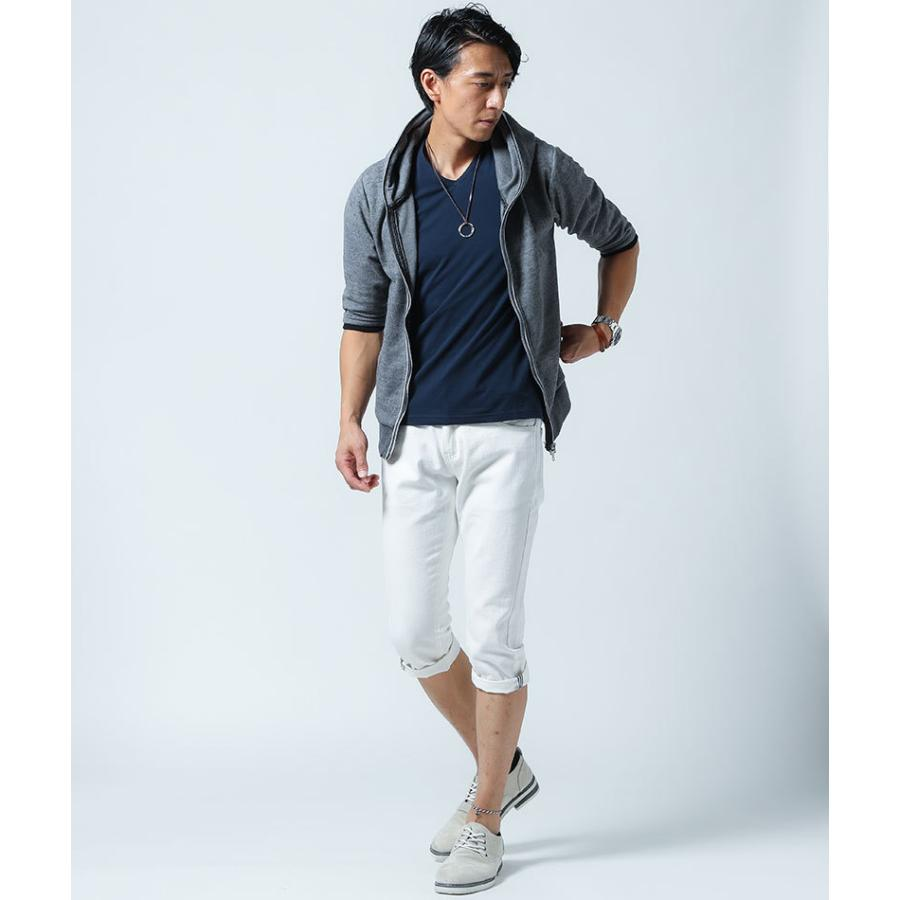
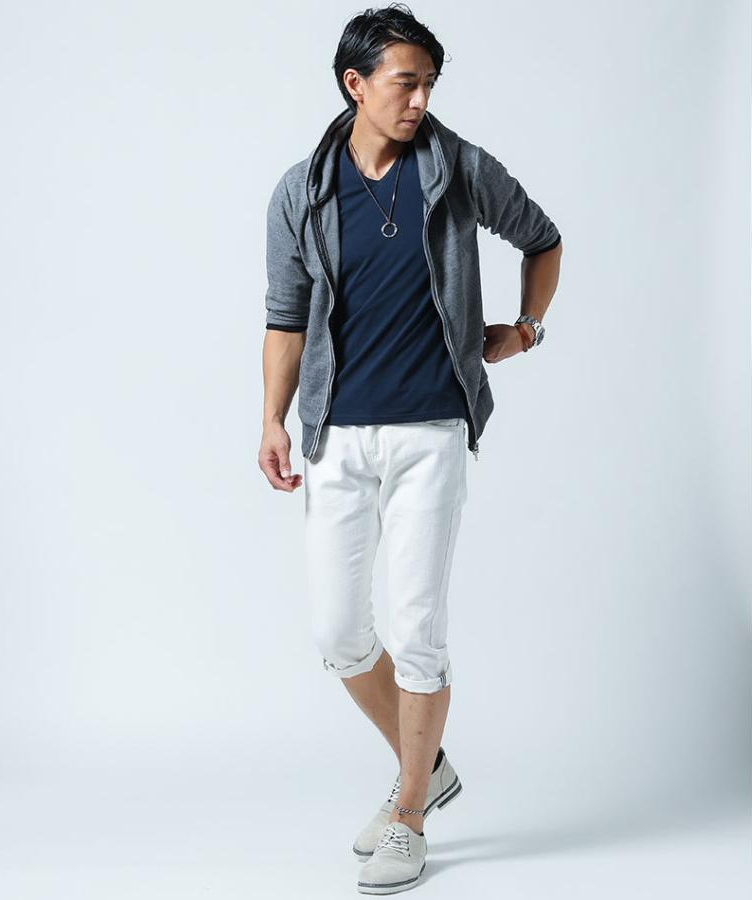
Add files via upload

diff --git a/スタイルセンス/スタイルセンス.py b/スタイルセンス/スタイルセンス.py
@@ -11,12 +11,23 @@ from datetime import datetime
 import kivy.graphics 
 import threading 
 from kivy.uix.spinner import Spinner 
+import os # 導入 os 模塊用於路徑檢查
 
 API_KEY = "93aea5ae7f71bd9bcbe24bb57b43ad90"
 DEFAULT_CITY = "Kobe"
 WEATHER_ICON_URL = "https://openweathermap.org/img/wn/{icon_code}@2x.png" 
 DEFAULT_ICON_PATH = "images/default.png" 
-Window.clearcolor = (1, 1, 1, 1)
+
+# -------------------------------------------------------------------
+# 獲取應用程式根目錄，用於構建絕對路徑 (解決 Kivy 路徑問題)
+app_dir = os.path.dirname(os.path.abspath(__file__))
+
+def get_abs_path(relative_path):
+    """將相對路徑轉換為絕對路徑"""
+    parts = relative_path.split('/') 
+    return os.path.join(app_dir, *parts)
+# -------------------------------------------------------------------
+
 
 class WeatherApp(App):
     def build(self):
@@ -30,26 +41,52 @@ class WeatherApp(App):
         self.sunrise = 0
         self.sunset = 0
 
+        # 💥 只有兩種背景圖片，使用絕對路徑
+        self.rainy_bg_image = get_abs_path("images/rainy_background.png")  
+        self.sunny_bg_image = get_abs_path("images/sunny_background.png")  
+        # ⚠ 移除 cloudy_bg_image 相關定義
+        self.current_bg_image = self.sunny_bg_image 
+
+        # 檢查背景圖片是否存在 
+        if not os.path.exists(self.rainy_bg_image):
+            print(f"警告: 雨天背景圖片 '{self.rainy_bg_image}' 未找到。")
+            self.rainy_bg_image = "" 
+        if not os.path.exists(self.sunny_bg_image):
+            print(f"警告: 晴天背景圖片 '{self.sunny_bg_image}' 未找到。")
+            self.sunny_bg_image = "" 
+        # ⚠ 移除 cloudy_bg_image 檢查
+
+        # 確保服裝建議圖也使用絕對路徑
         self.rules = [
-            {"temp": (-20, 10), "weather_keywords": ["雨", "雪", "霧"], "advice": "寒くて雨や雪です。ダウンコートや厚手の上着、防水靴をおすすめします。", "image": "images/coat_rain.png"},
-            {"temp": (-20, 10), "weather_keywords": [], "advice": "寒く乾燥しています。厚手のコートやダウンをおすすめします。", "image": "images/coat.png"}, 
-            {"temp": (11, 20), "weather_keywords": ["雨"], "advice": "涼しく雨です。薄手の上着やウィンドブレーカー、傘を持ちましょう。", "image": "images/long_sleeve_rain.png"}, 
-            {"temp": (11, 20), "weather_keywords": [], "advice": "涼しい天気です。薄手の上着や長袖シャツをおすすめします。", "image": "images/long_sleeve.png"},
-            {"temp": (21, 25), "weather_keywords": ["雨"], "advice": "暖かく雨が降りそうです。長袖や七分袖に軽めの上着、傘を持ちましょう。", "image": "images/long_sleeve_tshirt_rain.png"}, 
-            {"temp": (21, 25), "weather_keywords": [], "advice": "過ごしやすい気温です。長袖や七分袖に軽い上着が良いでしょう。", "image": "images/long_sleeve_tshirt.png"}, 
-            {"temp": (26, 40), "weather_keywords": ["雨", "雷"], "advice": "暑くて雨です。半袖、短パンで涼しくし、傘を持ちましょう。", "image": "images/tshirt_rain.png"}, 
-            {"temp": (26, 40), "weather_keywords": [], "advice": "暑い日です。半袖やスカートなど涼しい服装をおすすめします。", "image": "images/tshirt.png"},
-            
+            {"temp": (-20, 10), "weather_keywords": ["雨", "雪", "霧"], "advice": "寒くて雨や雪です。ダウンコートや厚手の上着、防水靴をおすすめします。", "image": get_abs_path("images/coat_rain.png")},
+            {"temp": (-20, 10), "weather_keywords": [], "advice": "寒く乾燥しています。厚手のコートやダウンをおすすめします。", "image": get_abs_path("images/coat.png")}, 
+            {"temp": (11, 20), "weather_keywords": ["雨"], "advice": "涼しく雨です。薄手の上着やウィンドブレーカー、傘を持ちましょう。", "image": get_abs_path("images/long_sleeve_rain.png")}, 
+            {"temp": (11, 20), "weather_keywords": [], "advice": "涼しい天気です。薄手の上着や長袖シャツをおすすめします。", "image": get_abs_path("images/long_sleeve.png")},
+            {"temp": (21, 25), "weather_keywords": ["雨"], "advice": "暖かく雨が降りそうです。長袖や七分袖に軽めの上着、傘を持ちましょう。", "image": get_abs_path("images/long_sleeve_tshirt_rain.png")}, 
+            {"temp": (21, 25), "weather_keywords": [], "advice": "過ごしやすい気温です。長袖や七分袖に軽い上着が良いでしょう。", "image": get_abs_path("images/long_sleeve_tshirt.png")}, 
+            {"temp": (26, 40), "weather_keywords": ["雨", "雷"], "advice": "暑くて雨です。半袖、短パンで涼しくし、傘を持ちましょう。", "image": get_abs_path("images/tshirt_rain.png")}, 
+            {"temp": (26, 40), "weather_keywords": [], "advice": "暑い日です。半袖やスカートなど涼しい服装をおすすめします。", "image": get_abs_path("images/tshirt.png")},
         ]
 
-        main_layout = BoxLayout(orientation='vertical', padding=20, spacing=15)
-        top_layout = BoxLayout(orientation='horizontal', size_hint_y=0.25, spacing=10)
+        # 💥 移除 padding 和 spacing，讓背景鋪滿整個視窗
+        main_layout = BoxLayout(orientation='vertical', padding=0, spacing=0) 
+        
+        # 設定 main_layout 的背景圖片
+        main_layout.bind(size=self._update_bg_rect, pos=self._update_bg_rect)
+        with main_layout.canvas.before:
+            # 💥 透明度設為 1.0 (100% 不透明)
+            kivy.graphics.Color(1, 1, 1, 1) 
+            self.bg_rect = kivy.graphics.Rectangle(source=self.current_bg_image, 
+                                                   pos=main_layout.pos, 
+                                                   size=main_layout.size)
+
+        # 接下來的佈局元件需要自己設定間距，如果需要的話
+        top_layout = BoxLayout(orientation='horizontal', size_hint_y=0.25, spacing=10, padding=15) # 重新加入內邊距
+        
         city_icon_layout = BoxLayout(orientation='horizontal', size_hint_x=0.6, spacing=5)
         self.city_selector_layout = BoxLayout(orientation='horizontal', size_hint_x=0.6) 
-        self.city_selector_layout.bind(size=self._update_rect, pos=self._update_rect)
-        with self.city_selector_layout.canvas.before:
-             kivy.graphics.Color(0, 0, 0, 1)
-             self.city_rect = kivy.graphics.Line(width=1)
+        # ⚠ 移除 city_selector_layout 的邊框繪製
+
         self.city_label = Label(
             text=self.city_name,
             font_name="C:/Windows/Fonts/msgothic.ttc",
@@ -75,7 +112,7 @@ class WeatherApp(App):
         self.city_spinner.bind(text=self.manual_search_weather_spinner)
         self.city_selector_layout.add_widget(self.city_label)
         self.city_selector_layout.add_widget(self.city_spinner)
-        self.weather_icon = Image(source=DEFAULT_ICON_PATH, size_hint_x=0.4)
+        self.weather_icon = Image(source=get_abs_path(DEFAULT_ICON_PATH), size_hint_x=0.4) 
         city_icon_layout.add_widget(self.city_selector_layout) 
         city_icon_layout.add_widget(self.weather_icon)
         date_weather_layout = BoxLayout(orientation='vertical', size_hint_x=0.4, spacing=5) 
@@ -104,11 +141,10 @@ class WeatherApp(App):
         date_weather_layout.add_widget(self.temp_weather_label)
         top_layout.add_widget(city_icon_layout)
         top_layout.add_widget(date_weather_layout)
-        self.center_layout = BoxLayout(orientation='horizontal', size_hint_y=0.5, spacing=10) 
-        self.center_layout.bind(size=self._update_rect, pos=self._update_rect)
-        with self.center_layout.canvas.before:
-            kivy.graphics.Color(0, 0, 0, 1)
-            self.center_rect = kivy.graphics.Line(width=1) 
+        
+        self.center_layout = BoxLayout(orientation='horizontal', size_hint_y=0.5, spacing=10, padding=[15, 0, 15, 0]) # 重新加入內邊距
+        # ⚠ 移除 center_layout 的邊框繪製
+
         left_center_layout = BoxLayout(orientation='vertical', size_hint_x=0.4, padding=[0, 10, 0, 0], spacing=10)
         self.extra_info_label = Label(
             text='湿度: N/A\n風速: N/A\n日の出: N/A\n日の入り: N/A',
@@ -132,10 +168,12 @@ class WeatherApp(App):
         self.rain_alert_label.bind(size=self.rain_alert_label.setter('text_size'))
         left_center_layout.add_widget(self.extra_info_label)
         left_center_layout.add_widget(self.rain_alert_label)
-        self.image = Image(source="images/default.png", size_hint_x=0.6)
+        self.image = Image(source=get_abs_path("images/default.png"), size_hint_x=0.6)
         self.center_layout.add_widget(left_center_layout)
         self.center_layout.add_widget(self.image)
-        bottom_layout = BoxLayout(orientation='vertical', size_hint_y=0.25) 
+        
+        bottom_layout = BoxLayout(orientation='vertical', size_hint_y=0.25, padding=15) # 重新加入內邊距
+        
         self.label = Label(
             text='神戸の天気を読み込み中...',
             font_name="C:/Windows/Fonts/msgothic.ttc",
@@ -148,17 +186,24 @@ class WeatherApp(App):
         )
         self.label.bind(size=self.label.setter('text_size'))
         bottom_layout.add_widget(self.label)
+        
         main_layout.add_widget(top_layout)
         main_layout.add_widget(self.center_layout) 
         main_layout.add_widget(bottom_layout)
+        
         threading.Thread(target=lambda: self._manual_weather_thread(DEFAULT_CITY)).start()
         return main_layout
 
-    def _update_rect(self, instance, value):
-        if instance == self.city_selector_layout:
-            self.city_rect.rectangle = (instance.x, instance.y, instance.width, instance.height)
-        elif instance == self.center_layout:
-            self.center_rect.rectangle = (instance.x, instance.y, instance.width, instance.height)
+    # ⚠ 移除 _update_rect 方法，因為相關的 Line 繪圖已被刪除
+    # def _update_rect(self, instance, value):
+    #     if instance == self.city_selector_layout:
+    #         self.city_rect.rectangle = (instance.x, instance.y, instance.width, instance.height)
+    #     elif instance == self.center_layout:
+    #         self.center_rect.rectangle = (instance.x, instance.y, instance.width, instance.height)
+
+    def _update_bg_rect(self, instance, value):
+        self.bg_rect.pos = instance.pos
+        self.bg_rect.size = instance.size
 
     def manual_search_weather_spinner(self, instance, city_name):
         city_to_search = city_name.strip()
@@ -181,16 +226,25 @@ class WeatherApp(App):
         self.extra_info_label.text = '湿度: N/A\n風速: N/A\n日の出: N/A\n日の入り: N/A'
         self.rain_alert_label.text = '読み込み中...'
         self.rain_alert_label.color = (0.3, 0.3, 0.3, 1)
-        self.weather_icon.source = DEFAULT_ICON_PATH 
+        self.weather_icon.source = get_abs_path(DEFAULT_ICON_PATH) 
+        
+        if self.current_bg_image != self.sunny_bg_image:
+            self.current_bg_image = self.sunny_bg_image
+            Clock.schedule_once(lambda dt: self._update_background_texture(), 0)
 
     def _update_error_ui(self):
         self.temp_weather_label.text = "天気 | 気温\n読み込み失敗"
         self.label.text = f"{self.city_name}の天気を取得できませんでした。ネットワークまたはAPI設定を確認してください。"
-        self.image.source = "images/default.png"
-        self.weather_icon.source = DEFAULT_ICON_PATH 
+        self.image.source = get_abs_path("images/default.png")
+        self.weather_icon.source = get_abs_path(DEFAULT_ICON_PATH) 
         self.extra_info_label.text = '湿度: N/A\n風速: N/A\n日の出: N/A\n日の入り: N/A'
         self.rain_alert_label.text = '読み込みエラー' 
         self.rain_alert_label.color = (1, 0, 0, 1)
+        
+        if self.current_bg_image != self.sunny_bg_image:
+            self.current_bg_image = self.sunny_bg_image
+            Clock.schedule_once(lambda dt: self._update_background_texture(), 0)
+
 
     def get_weather_data(self, city=None, lat=None, lon=None):
         if city is None:
@@ -234,7 +288,7 @@ class WeatherApp(App):
     def icon_download_fail(self, req, results):
         print(f"アイコンのダウンロードに失敗: {req.url}")
         def update_source_fail(dt):
-            self.weather_icon.source = DEFAULT_ICON_PATH
+            self.weather_icon.source = get_abs_path(DEFAULT_ICON_PATH)
             self.weather_icon.reload()
         Clock.schedule_once(update_source_fail, 0)
 
@@ -257,7 +311,8 @@ class WeatherApp(App):
             sunset_time = "N/A"
         extra_info_text = f"湿度: {self.humidity}%\n風速: {self.wind_speed} m/s\n日の出: {sunrise_time}\n日の入り: {sunset_time}"
         self.extra_info_label.text = extra_info_text
-        rain_keywords = ["雨", "雷", "にわか雨", "小雨", "大雨", "霧雨"]
+        
+        rain_keywords = ["雨", "雷", "にわか雨", "小雨", "大雨", "霧雨", "雪"] 
         is_rain_expected = any(keyword in self.weather for keyword in rain_keywords) 
         if is_rain_expected:
             self.rain_alert_label.text = "☂傘を持って行きましょう！"
@@ -266,13 +321,44 @@ class WeatherApp(App):
             self.rain_alert_label.text = "雨の予報はありません"
             self.rain_alert_label.color = (0.3, 0.3, 0.3, 1)
 
+    def _update_background_texture(self):
+        if os.path.exists(self.current_bg_image):
+            self.bg_rect.source = self.current_bg_image
+            self.bg_rect.texture = None 
+        else:
+            print(f"無法載入背景圖片: {self.current_bg_image}")
+            self.bg_rect.source = "" 
+            self.bg_rect.texture = None
+            
+
     def _determine_advice(self):
         if self.temp is None or self.weather is None:
             self.label.text = "天気情報が不足しているため、アドバイスを表示できません。"
-            self.image.source = "images/default.png"
+            self.image.source = get_abs_path("images/default.png")
+            
+            if self.current_bg_image != self.sunny_bg_image:
+                self.current_bg_image = self.sunny_bg_image
+                Clock.schedule_once(lambda dt: self._update_background_texture(), 0)
             return
+        
+        # 判斷並切換背景圖片 (只剩雨天和晴天)
+        rain_keywords = ["雨", "雷", "にわか雨", "小雨", "大雨", "霧雨", "雪"] 
+        
+        is_rain_expected = any(keyword in self.weather for keyword in rain_keywords)
+
+        new_bg_image = self.sunny_bg_image # 預設為晴天
+
+        if is_rain_expected:
+            new_bg_image = self.rainy_bg_image
+        else:
+            new_bg_image = self.sunny_bg_image
+
+        if new_bg_image != self.current_bg_image:
+            self.current_bg_image = new_bg_image
+            Clock.schedule_once(lambda dt: self._update_background_texture(), 0)
+
         suggestion = f"{self.temp}°C・{self.weather}に基づく服装の提案はありません。"
-        image_file = "images/default.png"
+        image_file = get_abs_path("images/default.png") 
         current_temp = self.temp
         current_weather = self.weather
         for rule in self.rules:
